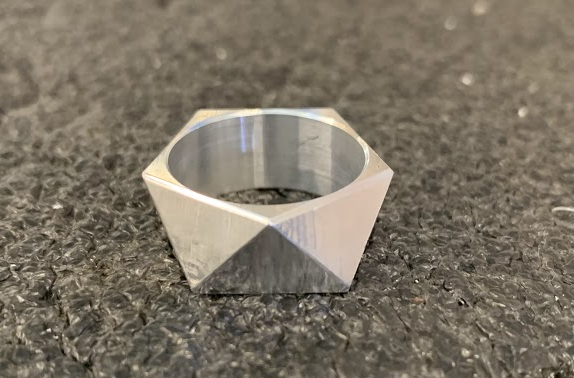
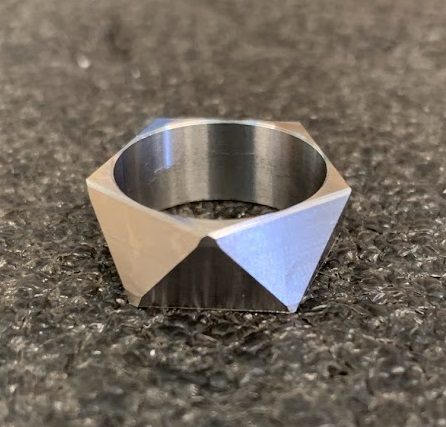
update sum shit

diff --git a/_manufacturing/cncMachining.md b/_manufacturing/cncMachining.md
@@ -21,7 +21,7 @@ Here are examples of parts I've made:
 
 <div class="imgCptnBox">
 <img src="{{ "assets/images/ring.png" | relative_url }}" class="articleImg">
-<figcaption class="articleCaption">Aluminum ring, prototype for stainless. This was my first true 5 axis part.</figcaption>
+<figcaption class="articleCaption">Stainless Steel ring. Simultaneous 5 axis part.</figcaption>
 </div>
 
 <div class="imgCptnBox">

diff --git a/_manufacturing/otherMfg.md b/_manufacturing/otherMfg.md
@@ -1,7 +1,7 @@
 ---
 layout: project
 title: Other Manufacturing
-imgFilename: "otherMain2.JPG"
+imgFilename: "pumpkin.png"
 when: ""
 order: 4
 ---
